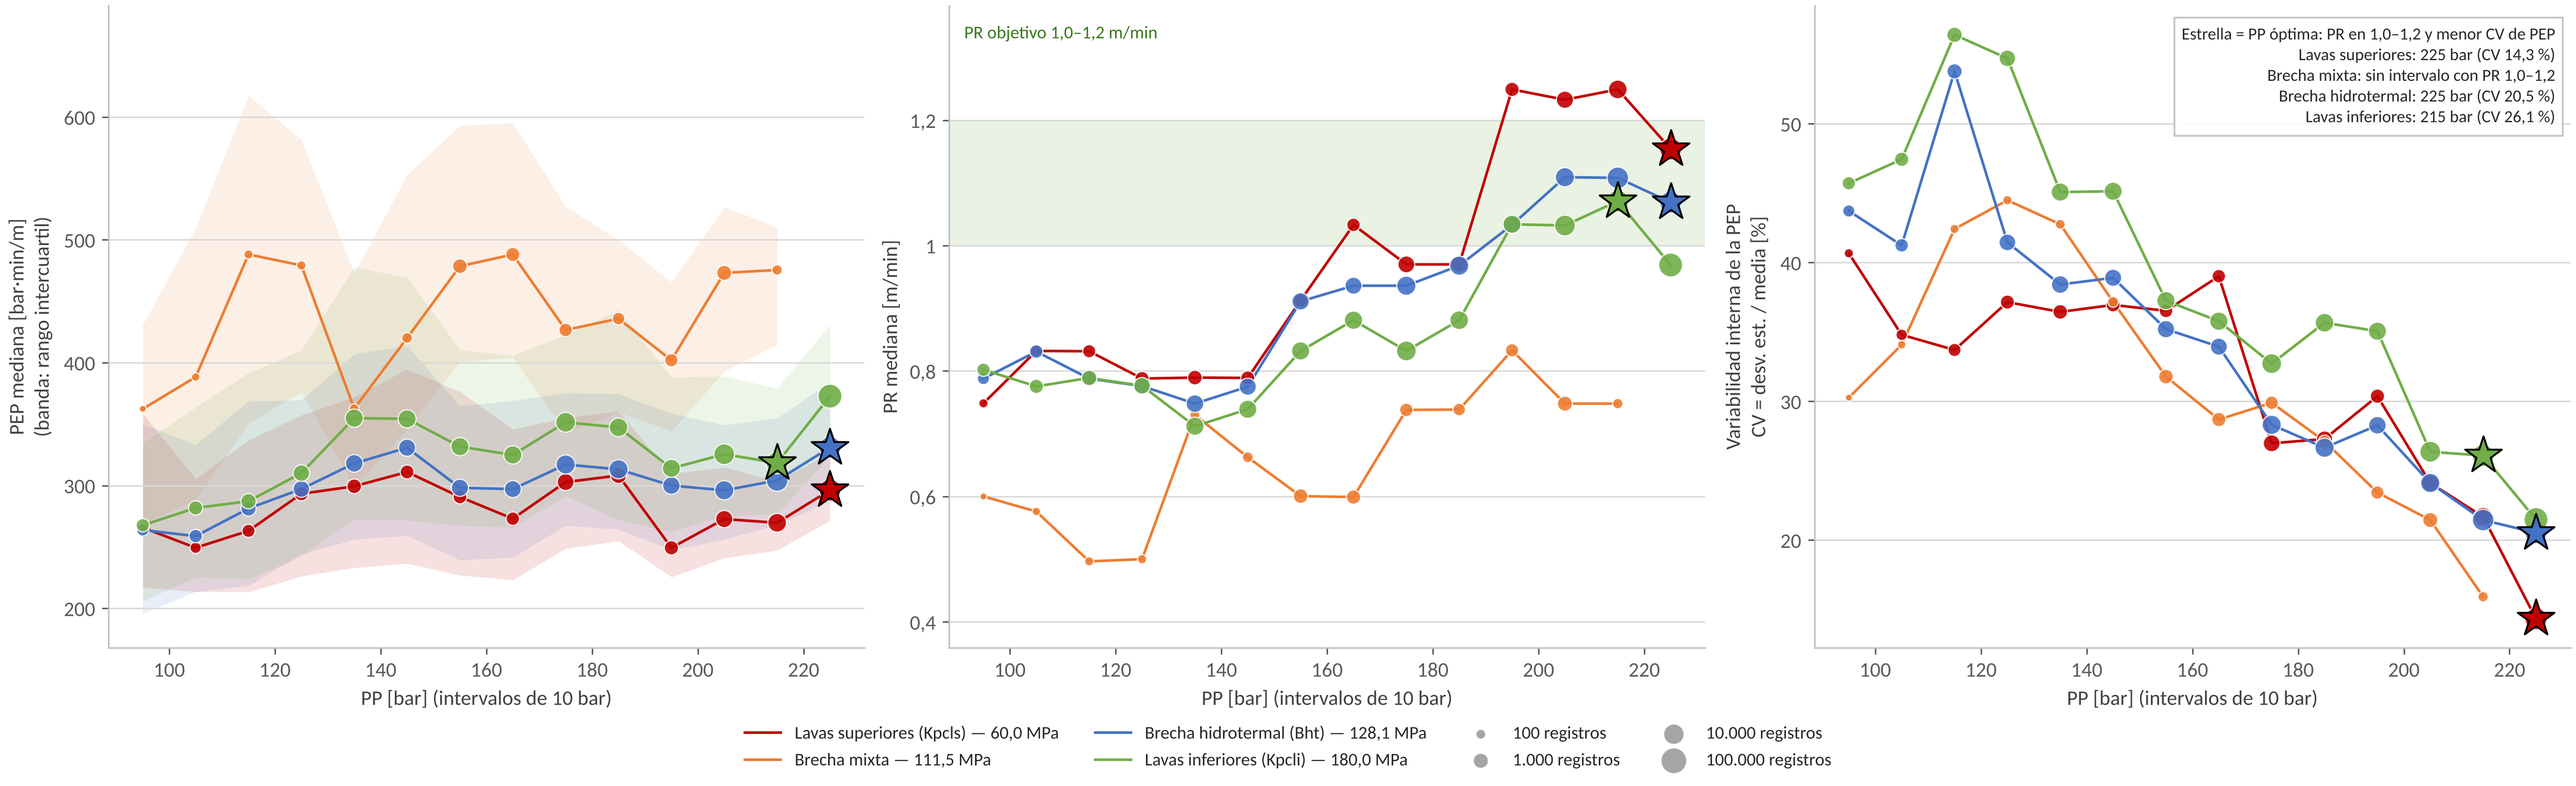
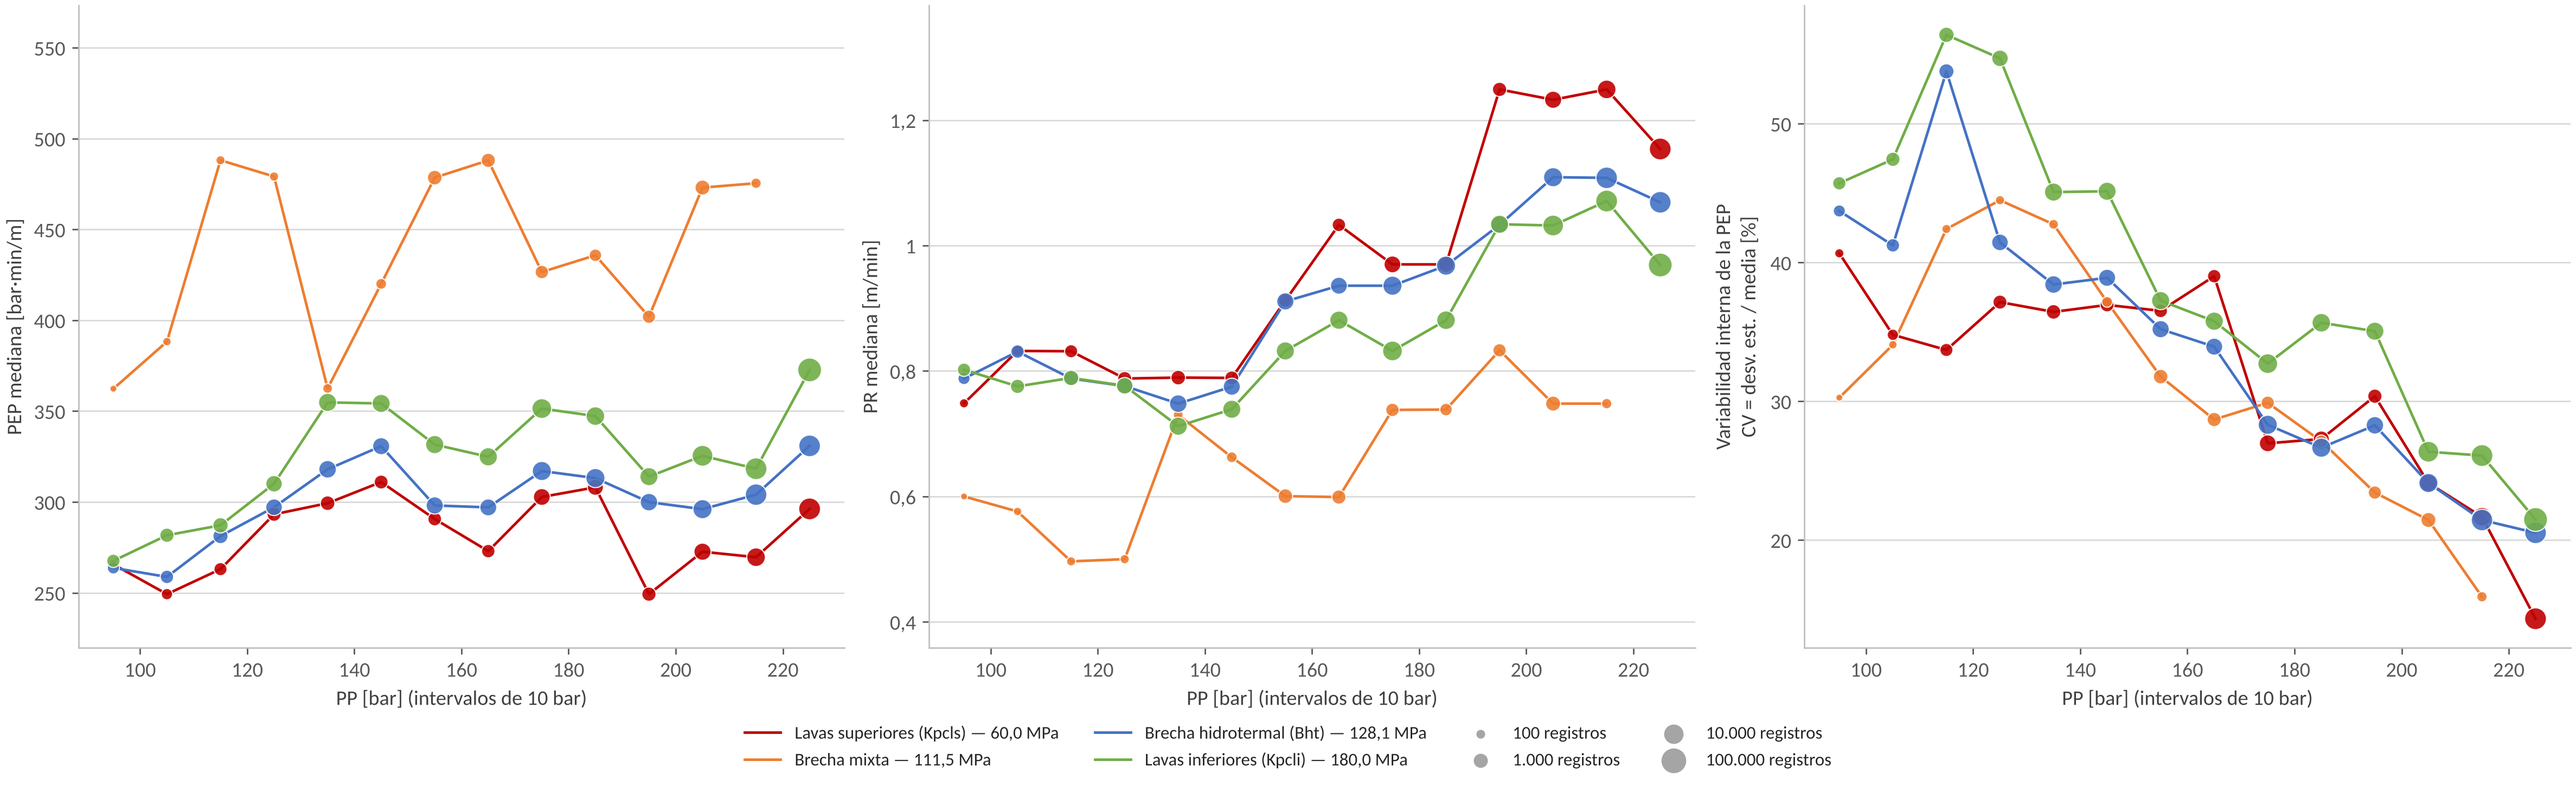
PEP/PR/CV por intervalo de PP: versión limpia, sin bandas ni estrellas
Claude-Session: https://claude.ai/code/session_01MT9AkNnHr1e9AMWji6YncB

diff --git a/memoria_final/final/fig_pep_pr_variabilidad.py b/memoria_final/final/fig_pep_pr_variabilidad.py
@@ -41,16 +41,14 @@ NOM = {"Kpcls": "Lavas superiores (Kpcls)", "Brecha_mixta": "Brecha mixta", "Bht
 dec = lambda x, n=1: f"{x:.{n}f}".replace(".", ","); mil = lambda n: f"{int(n):,}".replace(",", ".")
 c_ = FuncFormatter(lambda v, _p=None: (f"{v:.6f}".rstrip("0").rstrip(".") or "0").replace(".", ","))
 LITS = sorted(ANC, key=lambda l: ANC[l]); sz = lambda n: 8 * np.log10(n) ** 2
-lim = {k: (min(f[k2] for f in F), max(f[k3] for f in F)) for k, k2, k3 in (("pep", "q1", "q3"), ("pr", "pr", "pr"), ("cv", "cv", "cv"))}
+lim = {k: (min(f[k2] for f in F), max(f[k3] for f in F)) for k, k2, k3 in (("pep", "pep", "pep"), ("pr", "pr", "pr"), ("cv", "cv", "cv"))}
 for clase, nom_c in (("continua", f"Roca continua (DI ≤ {dec(UMB, 0)})"), ("discontinua", f"Roca discontinua (DI > {dec(UMB, 0)})")):
     fig, (a1, a2, a3) = plt.subplots(1, 3, figsize=(19, 5.8))
-    a2.axhspan(PR_LO, PR_HI, color="#70AD47", alpha=0.15, lw=0)
     resumen = []
     for li in LITS:
         ee = sorted([f for f in F if f["clase"] == clase and f["lito"] == li], key=lambda f: f["pp"])
         if not ee: continue
         c = COL[li]; x = [f["pp"] for f in ee]; s = [sz(f["n"]) for f in ee]
-        a1.fill_between(x, [f["q1"] for f in ee], [f["q3"] for f in ee], color=c, alpha=0.12, lw=0)
         for ax, k in ((a1, "pep"), (a2, "pr"), (a3, "cv")):
             ax.plot(x, [f[k] for f in ee], "-", color=c, lw=1.4, label=f"{NOM[li]} — {dec(ANC[li])} MPa" if ax is a1 else None)
             ax.scatter(x, [f[k] for f in ee], s=s, color=c, edgecolor="white", lw=0.6, alpha=0.9, zorder=4)
@@ -58,18 +56,15 @@ for clase, nom_c in (("continua", f"Roca continua (DI ≤ {dec(UMB, 0)})"), ("di
         if cand:
             b = min(cand, key=lambda f: f["cv"])
             for ax, k in ((a1, "pep"), (a2, "pr"), (a3, "cv")):
-                ax.scatter([b["pp"]], [b[k]], marker="*", s=420, color=c, edgecolor="black", lw=1, zorder=6)
+                pass
             resumen.append(f"{NOM[li].split(' (')[0]}: {mil(b['pp'])} bar (CV {dec(b['cv'])} %)")
         else:
             resumen.append(f"{NOM[li].split(' (')[0]}: sin intervalo con PR 1,0–1,2")
-    a1.set_ylabel("PEP mediana [bar·min/m]\n(banda: rango intercuartil)"); a2.set_ylabel("PR mediana [m/min]")
+    a1.set_ylabel("PEP mediana [bar·min/m]"); a2.set_ylabel("PR mediana [m/min]")
     a3.set_ylabel("Variabilidad interna de la PEP\nCV = desv. est. / media [%]")
     for ax, k in ((a1, "pep"), (a2, "pr"), (a3, "cv")):
         lo, hi = lim[k]; pad = 0.05 * (hi - lo); ax.set_ylim(lo - pad, hi + pad)
         ax.set_xlabel("PP [bar] (intervalos de 10 bar)"); ax.xaxis.set_major_formatter(c_); ax.yaxis.set_major_formatter(c_)
-    a2.text(0.02, 0.97, "PR objetivo 1,0–1,2 m/min", transform=a2.transAxes, va="top", fontsize=9.5, color="#38761D")
-    a3.text(0.98, 0.97, "Estrella = PP óptima: PR en 1,0–1,2 y menor CV de PEP\n" + "\n".join(resumen), transform=a3.transAxes,
-            ha="right", va="top", fontsize=9, color="#262626", bbox=dict(fc="white", ec="#BFBFBF", alpha=0.9))
     h_, l_ = a1.get_legend_handles_labels()
     for nn in (100, 1000, 10000, 100000):
         h_.append(plt.scatter([], [], s=sz(nn), color="#A5A5A5", edgecolor="white")); l_.append(f"{mil(nn)} registros")
